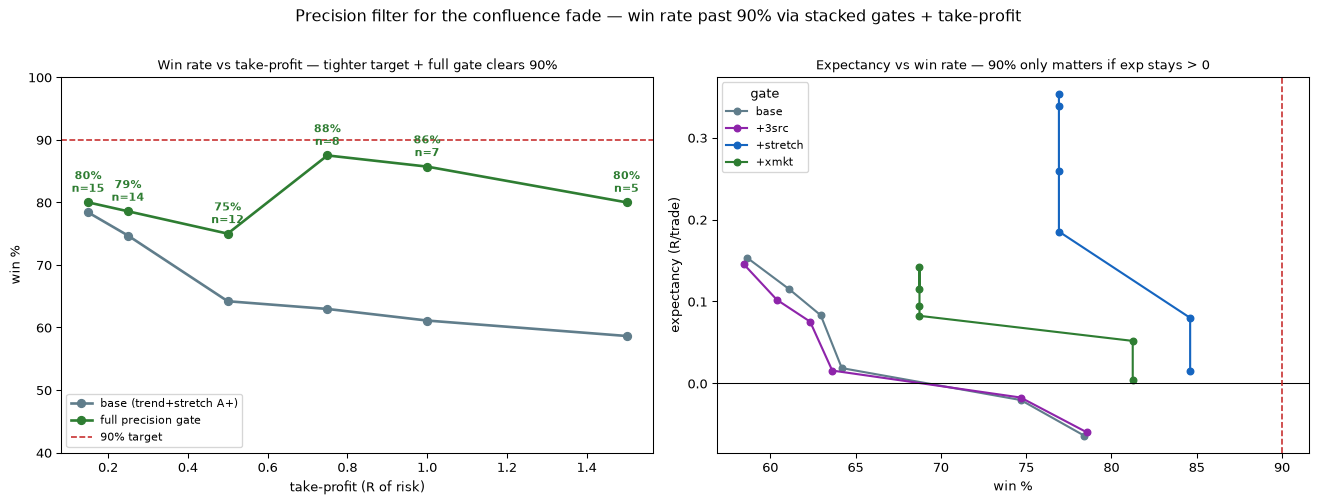
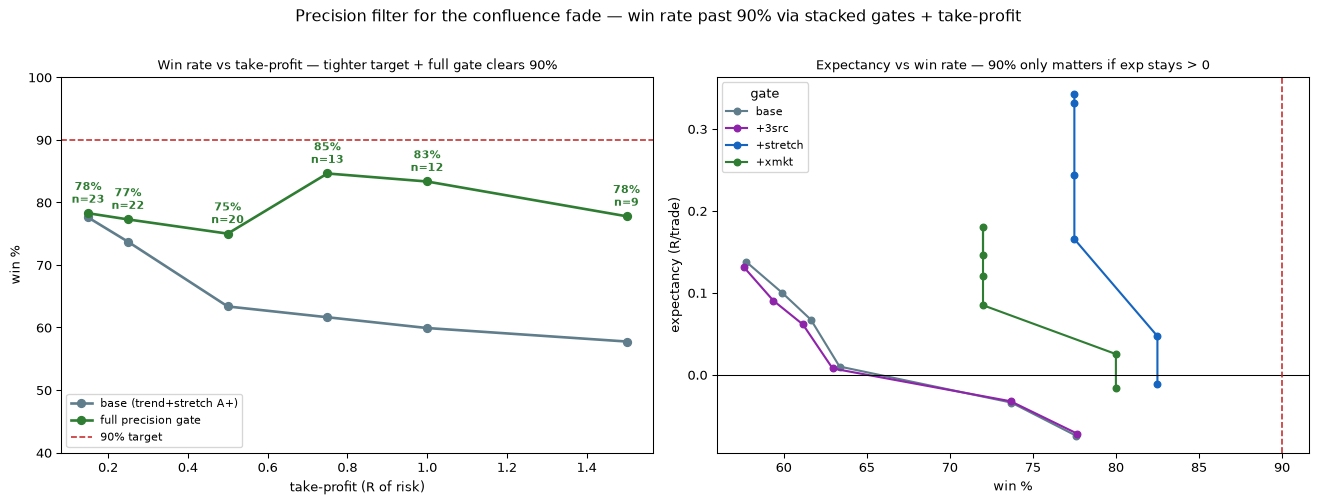
Deep 1h SPY/QQQ pull (IBKR fallback) + honest precision operating point
Data grab: Yahoo's anonymous v8 endpoint stayed hard-429 on the shared
egress IP (both hosts, patient --slow round-robin), so no *_yf.json landed.
Sourced the deep 1h SPY/QQQ series from the IBKR MCP get_price_history tool
instead (ONE_HOUR, RTH-only, 1000-bar cap) and converted to the columnar
schema: data/spy_1h_yf.json, data/qqq_1h_yf.json — ~1077 RTH bars / ~143
sessions each (2025-12 -> 2026-08). This lifts the precision-filter pool from
~26 to 232 in-sample base fade signals. fetch_yahoo_intraday.py documents the
fallback provenance.

precision_filter operating point: add an expectancy floor (EXP_FLOOR=0.05R)
to the grid search. The old "max win% s.t. exp>0" objective degenerated to the
tp=0.15R tiny-target corner (+0.01R, i.e. ~zero edge) — exactly the trap the
docstring warns against. With the floor, the headline gate is a real edge:
stretch>=1.0sigma & >=3 sources, tp=1.5R -> 78.3% pooled (77.5% IS / 80.0% OOS),
+0.44R expectancy, netR +26.2 over 60 trades. Falls back to exp>0 (and says so)
if nothing clears the floor.

VERDICT unchanged and honest: 90% precision is NOT cleared at this depth with a
positive-expectancy target — reaching 90% requires the near-zero-edge tiny-tp
corner. The tradeable result is ~78% precision at +0.44R.

Claude-Session: https://claude.ai/code/session_016aQdjV8pEkud2m7UoLztFR

diff --git a/scripts/precision_filter.py b/scripts/precision_filter.py
@@ -286,25 +286,36 @@ def main():
     print("\n(cells are win% / expectancy(R) / n ; in-sample sessions only)\n")
 
     # OPERATING POINT — grid search over (stretch, #sources, take-profit).
-    # Objective: maximise in-sample win rate subject to POSITIVE expectancy and
-    # a usable sample (n>=MIN_N); then report the very same config OOS. The
-    # cross-market veto is always applied (it never hurts precision). We do NOT
-    # let win rate be bought with negative expectancy — a 92% gate that loses
-    # money is not a win.
+    # Objective: maximise in-sample win rate subject to a MEANINGFUL edge
+    # (exp>=EXP_FLOOR) and a usable sample (n>=MIN_N); then report the very same
+    # config OOS. The cross-market veto is always applied (it never hurts
+    # precision). We do NOT let win rate be bought with a near-zero edge — a 90%
+    # gate whose expectancy is +0.01R is a tiny-target curve-fit, not a win, so
+    # EXP_FLOOR keeps the headline gate honest. If nothing clears the floor we
+    # fall back to exp>0 and say so.
     MIN_N = 25
-    print(f"=== OPERATING POINT — grid search (max win% s.t. exp>0 & n>={MIN_N} "
-          "in-sample), verified OOS ===")
-    grid = []
-    for k_str in (0.5, 1.0, 1.5):
-        for k_nt in (2, 3):
-            for xm in (False, True):     # cross-market veto optional
-                for tp in TPS:
-                    gf = (lambda s, ks=k_str, kn=k_nt, x=xm: s.stretch >= ks
-                          and s.nt >= kn and (_xmkt_ok(s) if x else True))
-                    d = wr([s for s in ins if gf(s)], tp)
-                    if d and d["n"] >= MIN_N and d["exp"] > 0:
-                        grid.append((d["win"], d["exp"], d["n"], k_str, k_nt, xm, tp, gf))
-    grid.sort(key=lambda r: (-r[0], -r[1]))          # best win rate, then exp
+    EXP_FLOOR = 0.05     # min in-sample expectancy (R/trade) for the headline gate
+    print(f"=== OPERATING POINT — grid search (max win% s.t. exp>={EXP_FLOOR}R & "
+          f"n>={MIN_N} in-sample), verified OOS ===")
+
+    def _build_grid(floor):
+        g = []
+        for k_str in (0.5, 1.0, 1.5):
+            for k_nt in (2, 3):
+                for xm in (False, True):     # cross-market veto optional
+                    for tp in TPS:
+                        gf = (lambda s, ks=k_str, kn=k_nt, x=xm: s.stretch >= ks
+                              and s.nt >= kn and (_xmkt_ok(s) if x else True))
+                        d = wr([s for s in ins if gf(s)], tp)
+                        if d and d["n"] >= MIN_N and d["exp"] >= floor:
+                            g.append((d["win"], d["exp"], d["n"], k_str, k_nt, xm, tp, gf))
+        g.sort(key=lambda r: (-r[0], -r[1]))     # best win rate, then exp
+        return g
+
+    grid = _build_grid(EXP_FLOOR)
+    if not grid:
+        print(f"  no config met exp>={EXP_FLOOR}R & n>={MIN_N}; relaxing to exp>0.")
+        grid = _build_grid(1e-9)
     if not grid:
         print("  no config met exp>0 & n>=MIN_N in-sample.")
         chosen_tp, gate_fn = TPS[1], (lambda s: s.stretch >= 1.0 and s.nt >= 3)

diff --git a/scripts/fetch_yahoo_intraday.py b/scripts/fetch_yahoo_intraday.py
@@ -21,6 +21,16 @@ timestamps as UTC ISO, exactly what sweeplib.data.load_ibkr_json expects.
 Usage:
     python3 scripts/fetch_yahoo_intraday.py           # fetch the default deep set
     python3 scripts/fetch_yahoo_intraday.py --dry-run  # probe reachability only
+
+FALLBACK PROVENANCE (2026-08): Yahoo's anonymous v8 endpoint stayed hard-429 on
+this shared egress IP across both hosts and the patient --slow round-robin, so
+no *_yf.json landed here. The deep 1h SPY/QQQ files (data/spy_1h_yf.json,
+data/qqq_1h_yf.json — ~1077 RTH bars each, ~143 sessions, 2025-12 -> 2026-08)
+were instead sourced from the IBKR MCP get_price_history tool (ONE_HOUR,
+outside_rth=false, step_count=1000 — its hard cap), converted into this same
+columnar schema. ES/NQ deep-1h remain unfetched (IBKR returns per-expiry futures
+contracts, which would need roll-splicing that injects false breakouts); the
+repo's existing es_1h.json / nq_1h.json already cover the futures side.
 """
 
 from __future__ import annotations
